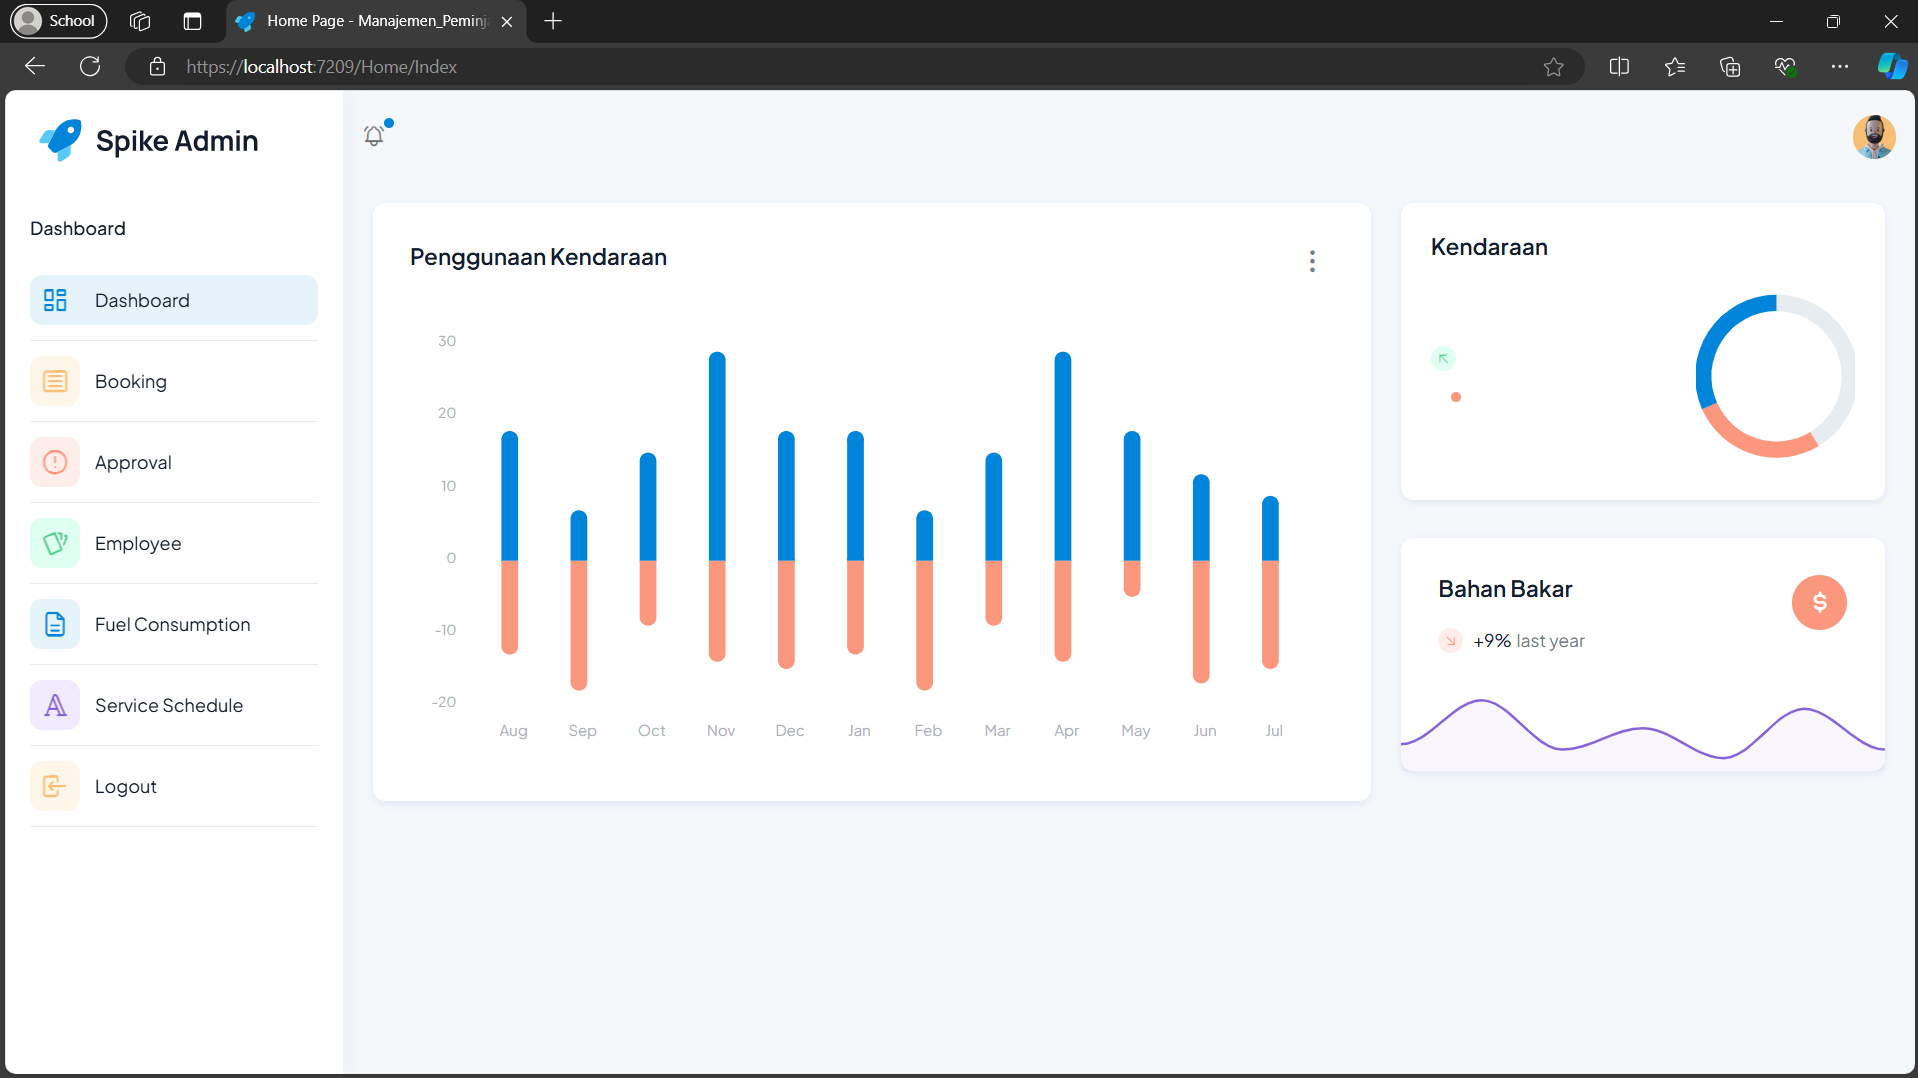
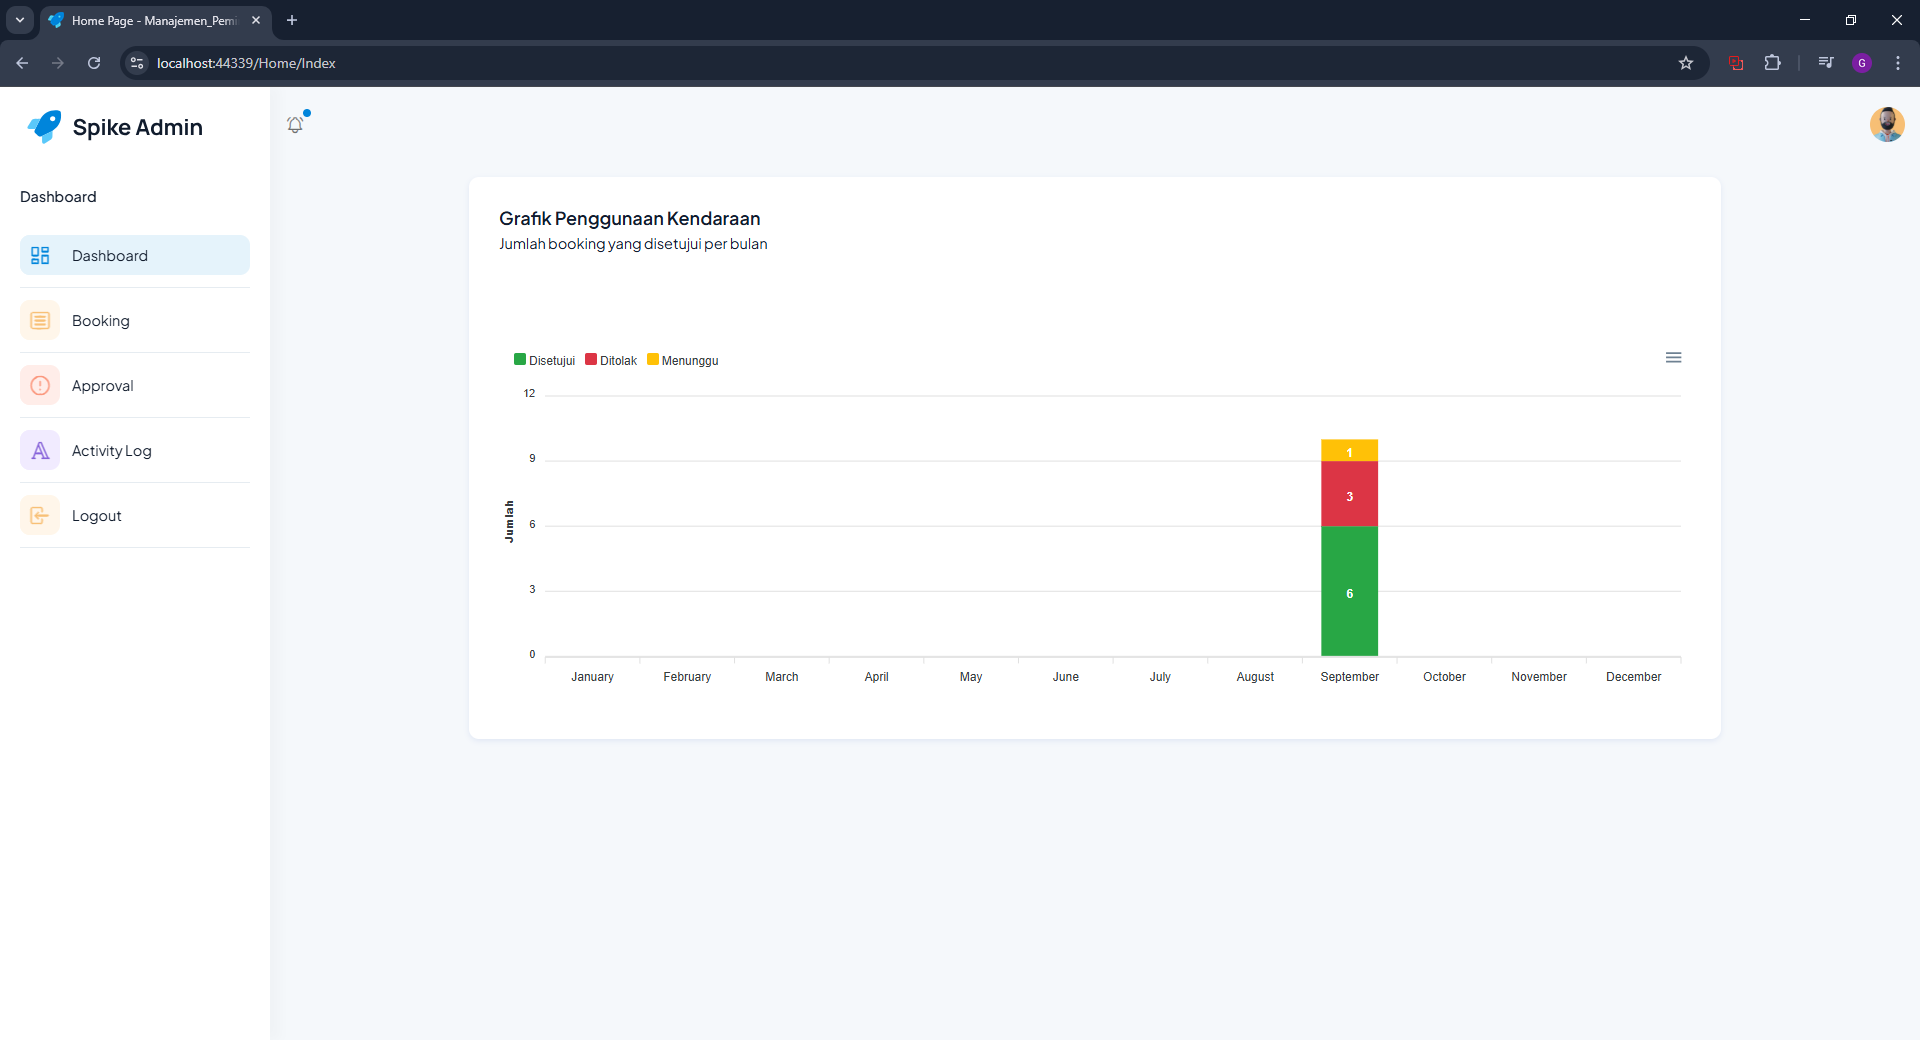
feat: ss

diff --git a/README.md b/README.md
@@ -13,17 +13,16 @@ Ini adalah repositori yang diperuntukkan untuk tes teknikal dengan `case` nya ad
 ![App Screenshot](https://github.com/ghufronahmad/Manajemen-Peminjaman-Mobil/blob/master/public/admin/dashboard.png?raw=true)
 
 ### 2. `Admin` Dashboard Pemesanan
-![App Screenshot](https://github.com/ghufronahmad/Manajemen-Peminjaman-Mobil/blob/master/public/admin/booking.png?raw=true)
+![App Screenshot](https://github.com/ghufronahmad/Manajemen-Peminjaman-Mobil/blob/master/public/admin/dashboard_booking.png?raw=true)
 
-### 3. `Admin` Dashboard Form
-![App Screenshot](https://github.com/ghufronahmad/Manajemen-Peminjaman-Mobil/blob/master/public/admin/create%20booking.png?raw=true)
+### 3. `Admin` Form Pemesanan
+![App Screenshot](https://github.com/ghufronahmad/Manajemen-Peminjaman-Mobil/blob/master/public/admin/form_booking.png?raw=true)
 
-### 4. `Admin` Dashboard Responsive
-![App Screenshot](https://github.com/ghufronahmad/Manajemen-Peminjaman-Mobil/blob/master/public/admin/dashboard%20responsive.png?raw=true)
+### 4. `Approver` Dashboard
+![App Screenshot](https://github.com/ghufronahmad/Manajemen-Peminjaman-Mobil/blob/master/public/approver/approver_1.png?raw=true)
 
-### 5. `Approver` Dashboard
-Belum selesai
-
+### 5. `Activity Log` 
+![App Screenshot](https://github.com/ghufronahmad/Manajemen-Peminjaman-Mobil/blob/master/public/approver/activity_log.png?raw=true)
 
 ## Installation 🗳
 
@@ -44,7 +43,7 @@ Sesuaikan database environment,
 contoh
 
 ```bash
-"VehicleManagementDbConnectionString": "server={Your-Database}\\SQLEXPRESS;database=peminjamanmobil;Trusted_connection=true;TrustServerCertificate=true;"
+"VehicleManagementDbConnectionString": "server={Your-Database};database=peminjamanmobil;Trusted_connection=true;TrustServerCertificate=true;"
 ```
 
 Buka Package Manager Console
@@ -66,12 +65,12 @@ dotnet watch
 
 | username | password  |
 | :-------- | :------- |
-| `admin@gmail.com` | `AdminPassword123` |
+| `admin@gmail.com` | `admin123` |
 
 ### 2. Approver
 
 
 | username | password  |
 | :-------- | :------- |
-| `approver1@gmail.com` | `ApproverPassword123` |
-| `approver1@gmail.com` | `ApproverPassword123` |
+| `approver1@gmail.com` | `approver123` |
+| `approver1@gmail.com` | `approver456` |
